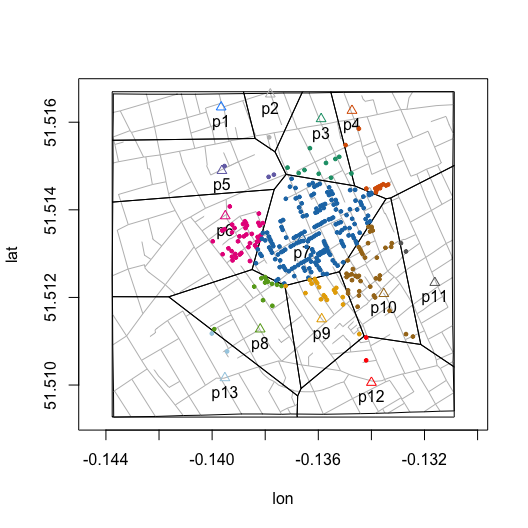
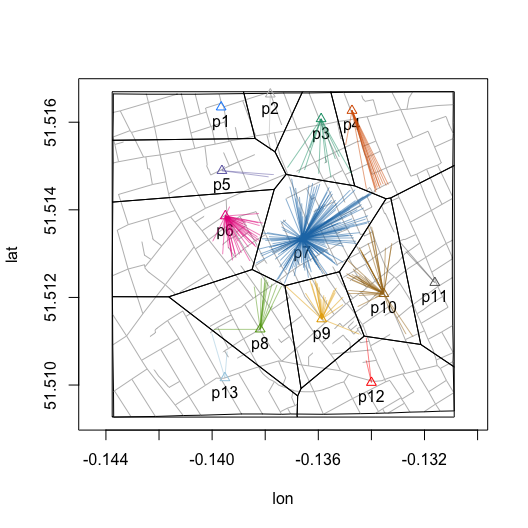
add/set neighborhoodVoronoiB(euclidean.paths = FALSE)

diff --git a/README.md b/README.md
@@ -1,7 +1,7 @@
 
 <!-- README.md is generated from README.Rmd. Please edit that file -->
 [![CRAN\_Status\_Badge](http://www.r-pkg.org/badges/version/cholera)](https://cran.r-project.org/package=cholera)
-[![GitHub\_Status\_Badge](https://img.shields.io/badge/GitHub-0.7.9.9062-red.svg)](https://github.com/lindbrook/cholera/blob/master/NEWS)  
+[![GitHub\_Status\_Badge](https://img.shields.io/badge/GitHub-0.7.9.9063-red.svg)](https://github.com/lindbrook/cholera/blob/master/NEWS)
 ## cholera: amend, augment and aid analysis of Snow’s cholera map
 
 #### package features
@@ -228,8 +228,8 @@ snowMap(latlong = TRUE)
 <img src="man/figures/README-latlong-1.png" width="50%" /><img src="man/figures/README-latlong-2.png" width="50%" />
 
 ``` r
-plot(neighborhoodVoronoi())
-neighborhoodVoronoiB()
+plot(neighborhoodVoronoi(), euclidean.paths = TRUE)
+neighborhoodVoronoiB(euclidean.paths = TRUE)
 ```
 
 <img src="man/figures/README-latlong_voronoi-1.png" width="50%" /><img src="man/figures/README-latlong_voronoi-2.png" width="50%" />
